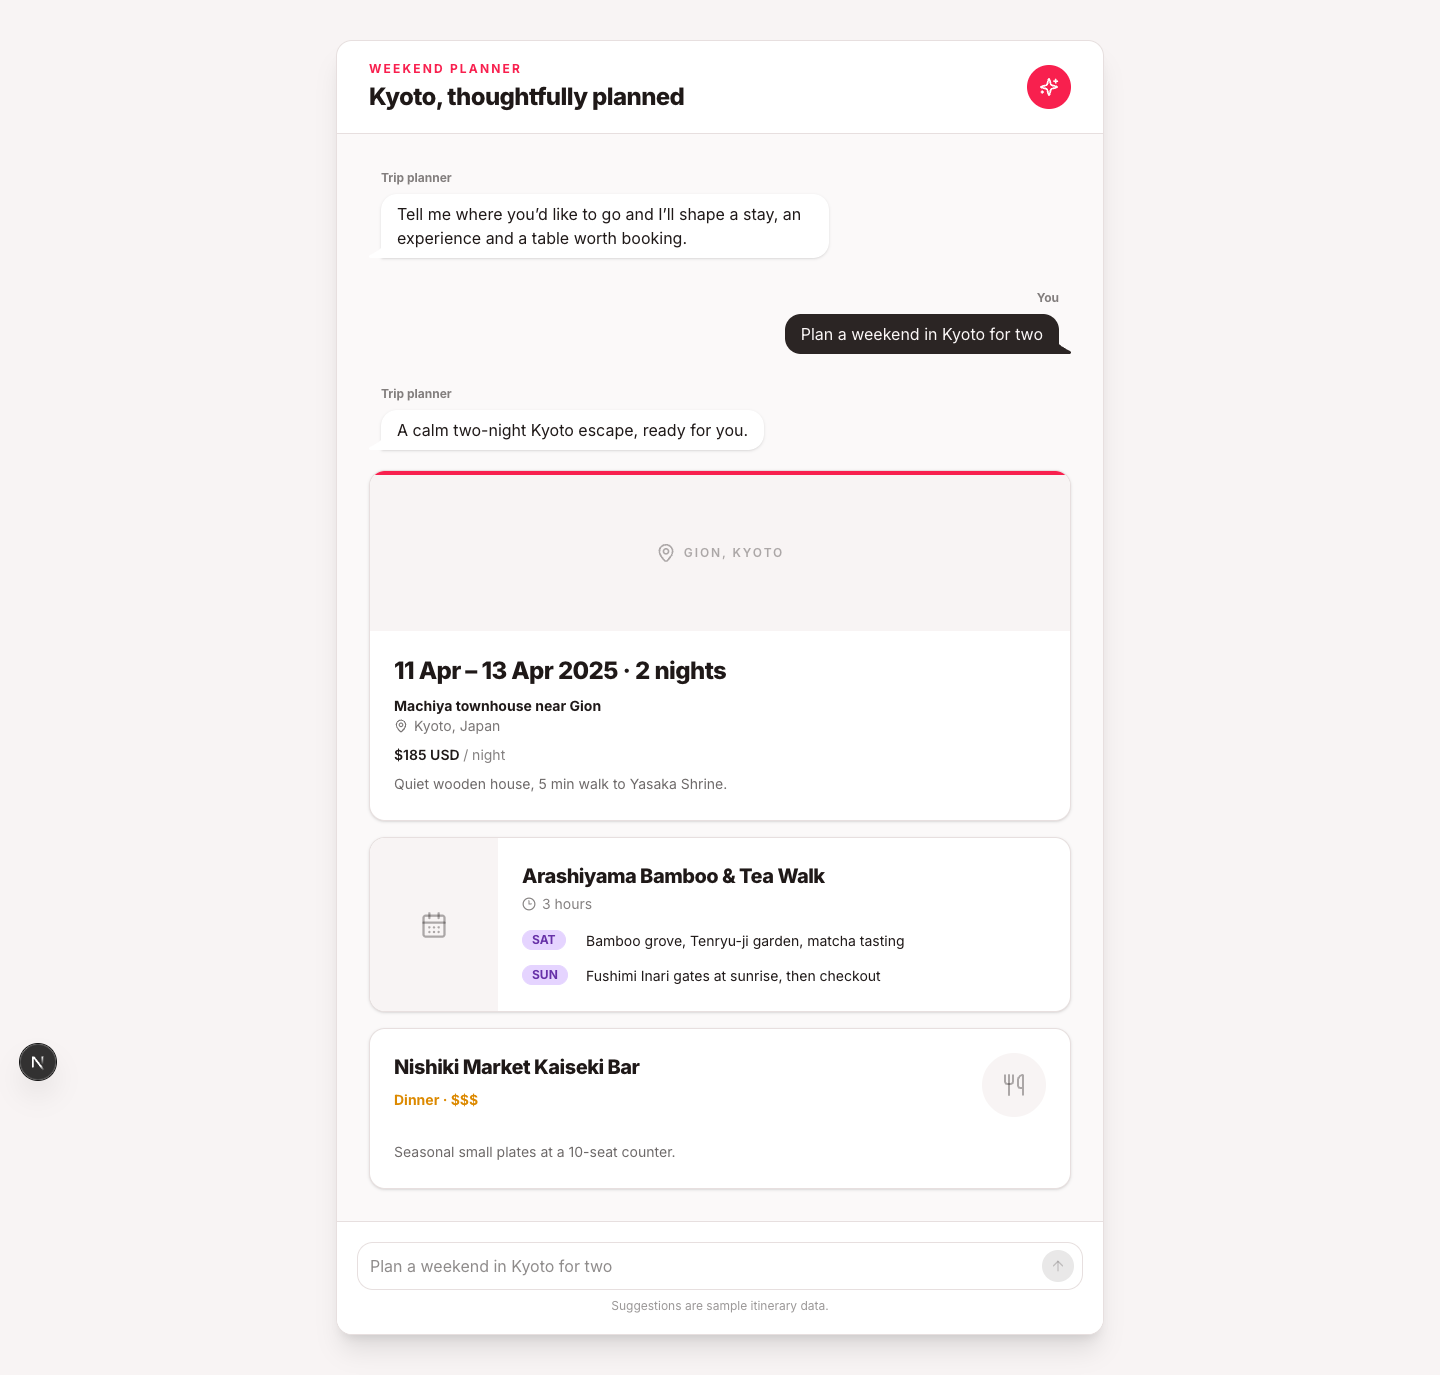
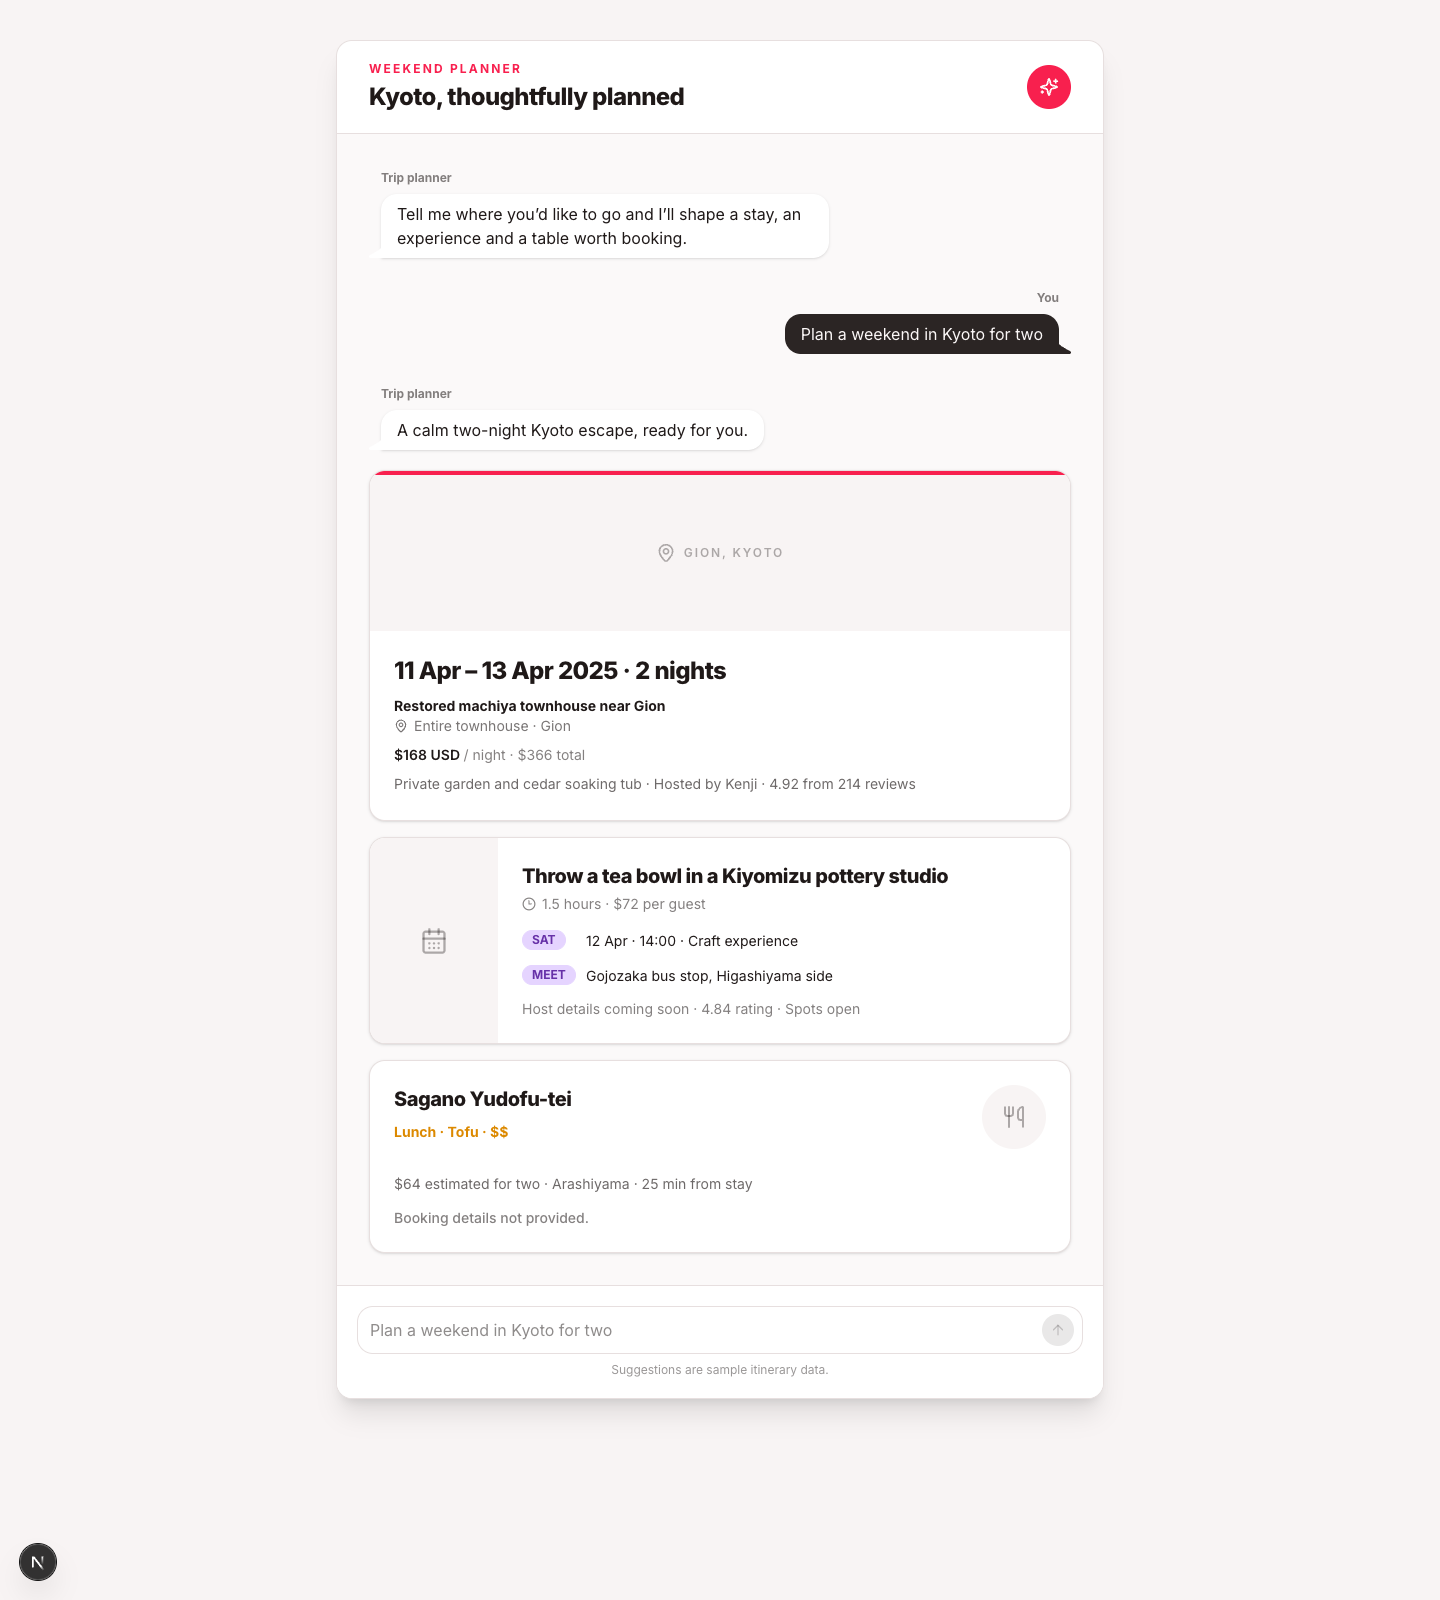
Use workbook data in trip cards

diff --git a/components/trip-planner.tsx b/components/trip-planner.tsx
@@ -27,13 +27,13 @@ function StayCard() {
       <div className="card-body gap-2 p-5 sm:p-6">
         <p className="text-xl font-extrabold tracking-tight sm:text-2xl">11 Apr – 13 Apr 2025 · 2 nights</p>
         <div>
-          <h3 className="font-bold">Machiya townhouse near Gion</h3>
+          <h3 className="font-bold">Restored machiya townhouse near Gion</h3>
           <p className="flex items-center gap-1.5 text-sm text-base-content/60">
-            <MapPin aria-hidden="true" className="size-3.5" /> Kyoto, Japan
+            <MapPin aria-hidden="true" className="size-3.5" /> Entire townhouse · Gion
           </p>
         </div>
-        <p className="font-semibold">$185 USD <span className="font-normal text-base-content/55">/ night</span></p>
-        <p className="text-sm leading-relaxed text-base-content/65">Quiet wooden house, 5 min walk to Yasaka Shrine.</p>
+        <p className="font-semibold">$168 USD <span className="font-normal text-base-content/55">/ night · $366 total</span></p>
+        <p className="text-sm leading-relaxed text-base-content/65">Private garden and cedar soaking tub · Hosted by Kenji · 4.92 from 214 reviews</p>
       </div>
     </article>
   );
@@ -47,20 +47,21 @@ function ExperienceCard() {
       </div>
       <div className="card-body gap-4 p-5 sm:p-6">
         <div>
-          <h3 className="card-title text-xl font-extrabold tracking-tight">Arashiyama Bamboo &amp; Tea Walk</h3>
+          <h3 className="card-title text-xl font-extrabold tracking-tight">Throw a tea bowl in a Kiyomizu pottery studio</h3>
           <p className="mt-1 flex items-center gap-1.5 text-sm text-base-content/55">
-            <Clock3 aria-hidden="true" className="size-3.5" /> 3 hours
+            <Clock3 aria-hidden="true" className="size-3.5" /> 1.5 hours · $72 per guest
           </p>
         </div>
         <div className="space-y-3 text-sm">
           <div className="grid grid-cols-[3.25rem_1fr] gap-3">
             <span className="badge badge-secondary badge-sm font-bold">SAT</span>
-            <p className="leading-relaxed">Bamboo grove, Tenryu-ji garden, matcha tasting</p>
+            <p className="leading-relaxed">12 Apr · 14:00 · Craft experience</p>
           </div>
           <div className="grid grid-cols-[3.25rem_1fr] gap-3">
-            <span className="badge badge-secondary badge-sm font-bold">SUN</span>
-            <p className="leading-relaxed">Fushimi Inari gates at sunrise, then checkout</p>
+            <span className="badge badge-secondary badge-sm font-bold">MEET</span>
+            <p className="leading-relaxed">Gojozaka bus stop, Higashiyama side</p>
           </div>
+          <p className="text-base-content/55">Host details coming soon · 4.84 rating · Spots open</p>
         </div>
       </div>
     </article>
@@ -72,13 +73,14 @@ function FoodCard() {
     <article className="card card-border border-base-300 bg-base-100 shadow-sm">
       <div className="card-body grid grid-cols-[1fr_auto] gap-x-5 p-5 sm:p-6">
         <div>
-          <h3 className="card-title text-xl font-extrabold tracking-tight">Nishiki Market Kaiseki Bar</h3>
-          <p className="mt-2 font-bold text-warning">Dinner · $$$</p>
+          <h3 className="card-title text-xl font-extrabold tracking-tight">Sagano Yudofu-tei</h3>
+          <p className="mt-2 font-bold text-warning">Lunch · Tofu · $$</p>
         </div>
         <div className="flex size-16 items-center justify-center rounded-full bg-base-200 text-base-content/35">
           <Utensils aria-hidden="true" className="size-6" />
         </div>
-        <p className="col-span-2 mt-4 text-sm leading-relaxed text-base-content/65">Seasonal small plates at a 10-seat counter.</p>
+        <p className="col-span-2 mt-4 text-sm leading-relaxed text-base-content/65">$64 estimated for two · Arashiyama · 25 min from stay</p>
+        <p className="col-span-2 mt-1 text-sm font-medium text-base-content/55">Booking details not provided.</p>
       </div>
     </article>
   );

diff --git a/README.md b/README.md
@@ -8,10 +8,11 @@ A responsive trip-planning chatbot built with Next.js, TypeScript, Tailwind CSS 
 
 - Message input and send action lock while the assistant is thinking.
 - Accessible thinking animation with `aria-busy` and a live status message.
-- Three workbook-driven cards in a fixed order:
-  - Stay: Machiya townhouse near Gion
-  - Experience: Arashiyama Bamboo & Tea Walk
-  - Food: Nishiki Market Kaiseki Bar
+- Three cards sourced from one real row per workbook sheet, in a fixed order:
+  - Stay (`Stays!A3:M3`): Restored machiya townhouse near Gion
+  - Experience (`Experiences!A6:L6`): Throw a tea bowl in a Kiyomizu pottery studio
+  - Food (`Food!A4:I4`): Sagano Yudofu-tei
+- Explicit filler copy for empty workbook fields: missing host and booking details.
 - Responsive card layouts that mirror the supplied design specification.
 - Forced one-time failure flow with a working retry action.
 - Reduced-motion support, semantic controls and labelled icon actions.
